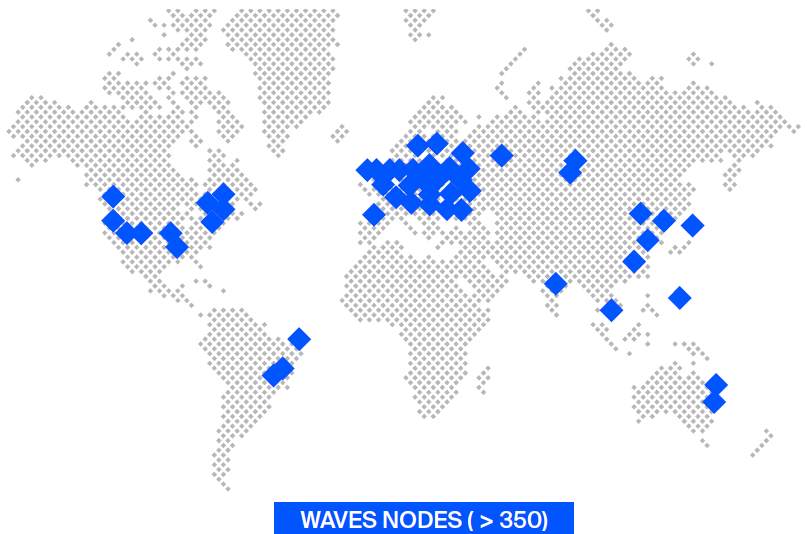
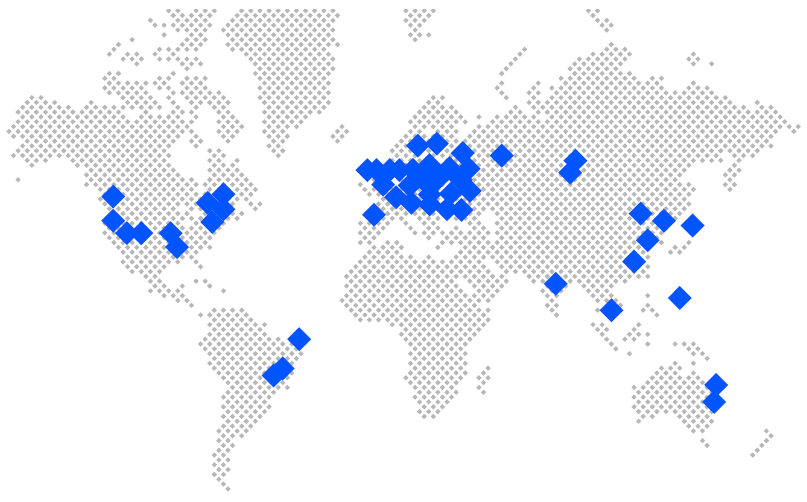
DOC-659

diff --git a/docs/ru/blockchain/blockchain/readme.md b/docs/ru/blockchain/blockchain/readme.md
@@ -1,37 +1,29 @@
 # Как устроен блокчейн Waves
 
-**Блокчейн** или **блокчейн Waves** — непрерывная последовательная цепочка [блоков](/ru/blockchain/block/), связанных с помощью криптографии.
+**Блокчейн** — технология децентрализованного хранения данных, обеспечивающая их неизменяемость, анонимность и прозрачность.
 
-неизменная в конечном итоге согласованная реплицируемая база данных
-прозрачность: хранение и обеспечение
-неизменности каждой операции
-• дешевизна: минимальные транзакционные
-издержки
-• надежность: децентрализация хранения данных
+## Транзакции и блоки
 
+Данные на блокчейне представлены в виде транзакций — записей о действиях, таких как выпуск или перевод криптовалюты, создание или вызов смарт-контракта и т. д.
 
-Блокчейн — это децентрализованное хранилище данных
+Транзакции сгруппированы в блоки, и каждый блок содержит хеш данных предыдущего блока. Таким образом, блокчейн состоит из цепочки блоков, связанных с помощью криптографии. Транзакции навсегда остаются в блокчейне в первозданном виде: изменение данных одной транзакции нарушило бы целостность данных в блоке и всех последующих блоках.
 
-Децентрализованное, безопасное и надежное хранение данных
-Никто не может их удалить
-По всему миру
+![](./_assets/blockchain.png)
 
-Надежность выражается в том, что данные неизменяемы, анонимны и прозрачные
+## Ноды 
 
-Данные хранятся не на одном сервере, а на нескольких нодах. У Waves более 400 нод по всему миру. Которые обеспечивают защищенность ваших данных.
+Сеть Waves состоит из сотен нод по всему миру. Нода — компьютер, обслуживающий блокчейн — хранит полную копию блокчейна, проверяет валидность всех транзакций и блоков и синхронизирует данные с другими нодами. Таким образом, данные блокчейна защищены от подделки и от удаления. Запустить свою ноду и присоединиться к сети может любой желающий.
 
 ![](./_assets/nodes-worldwide.png)
 
+Ноды могут участвовать в генерации новых блоков и получать вознаграждение за создание блока и комиссии за транзакции. Чтобы начать генерировать блоки, необходим баланс не менее 1000 WAVES — собственных или полученных в лизинг.
 
-Блокчейн представляет собой цепочку блоков, связанных с помощью криптографии. Каждый блок содержит цифровую подпись данных предыдущего блока — 
-и другую метаинформацию. А также транзакции. это действие на блокчейне, не болько финансовые операции. запись данных, 16 типов транзакций. 
+## Аккаунт
 
-В блокчейне есть аккаунты
+Каждая транзакция на блокчейне Waves создается от имени какого-либо аккаунта. У аккаунта есть пара ключей, связанных с помощью криптографии: закрытый ключ, которым аккаунт подписывает транзакции, и открытый ключ, который позволяет проверить достоверность подписи. Для создания аккаунта, хранения ключей и подписания транзакций можно использовать приложения — [Waves.Exchange](https://waves.exchange/), разработанное командой Waves.Exchange, или [Waves Keeper](/ru/ecosystem/waves-keeper/).
 
+У аккаунта также есть адрес, на который можно перевести WAVES и другие токены.
 
-запись в блокчейне о
-каком-либо событии
+## dApp
 
-dApps — приложения, которые хранят свои данные в децентрализованной сети, то есть на блокчейне.
-
-тут схемка dApp - клиентская библиотека - нода (слайд 63)
+dApp — это приложение, бэкенд которого работает на блокчейне. Проще говоря, это онлайн-сервис на основе блокчейна. Поэтому нет централизованной базы данных, которую можно было бы взломать или поставить под угрозу. dApps сочетают в себе все преимущества онлайн-сервисов с полным контролем над вашими данными. Каждый может создавать и использовать dApps.
